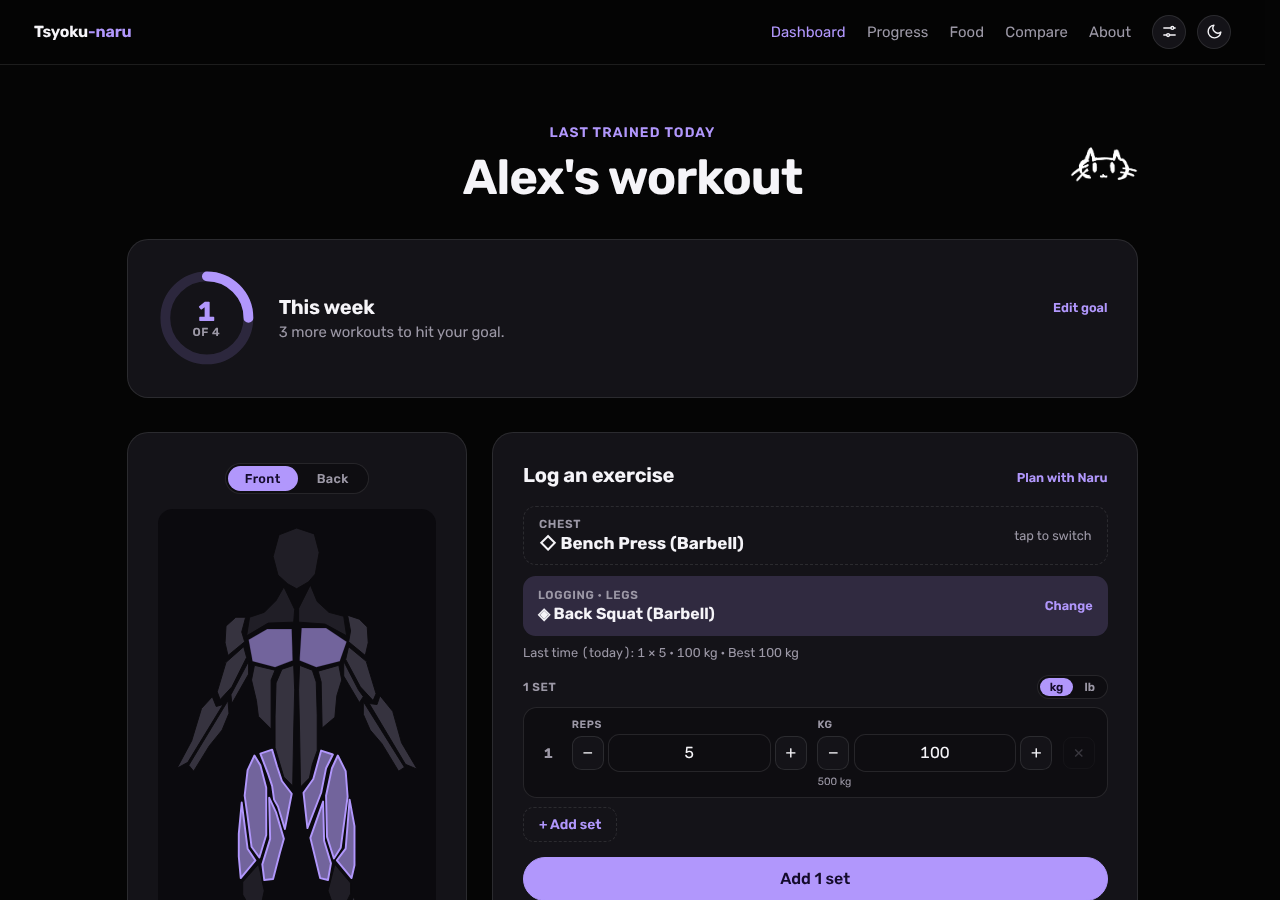
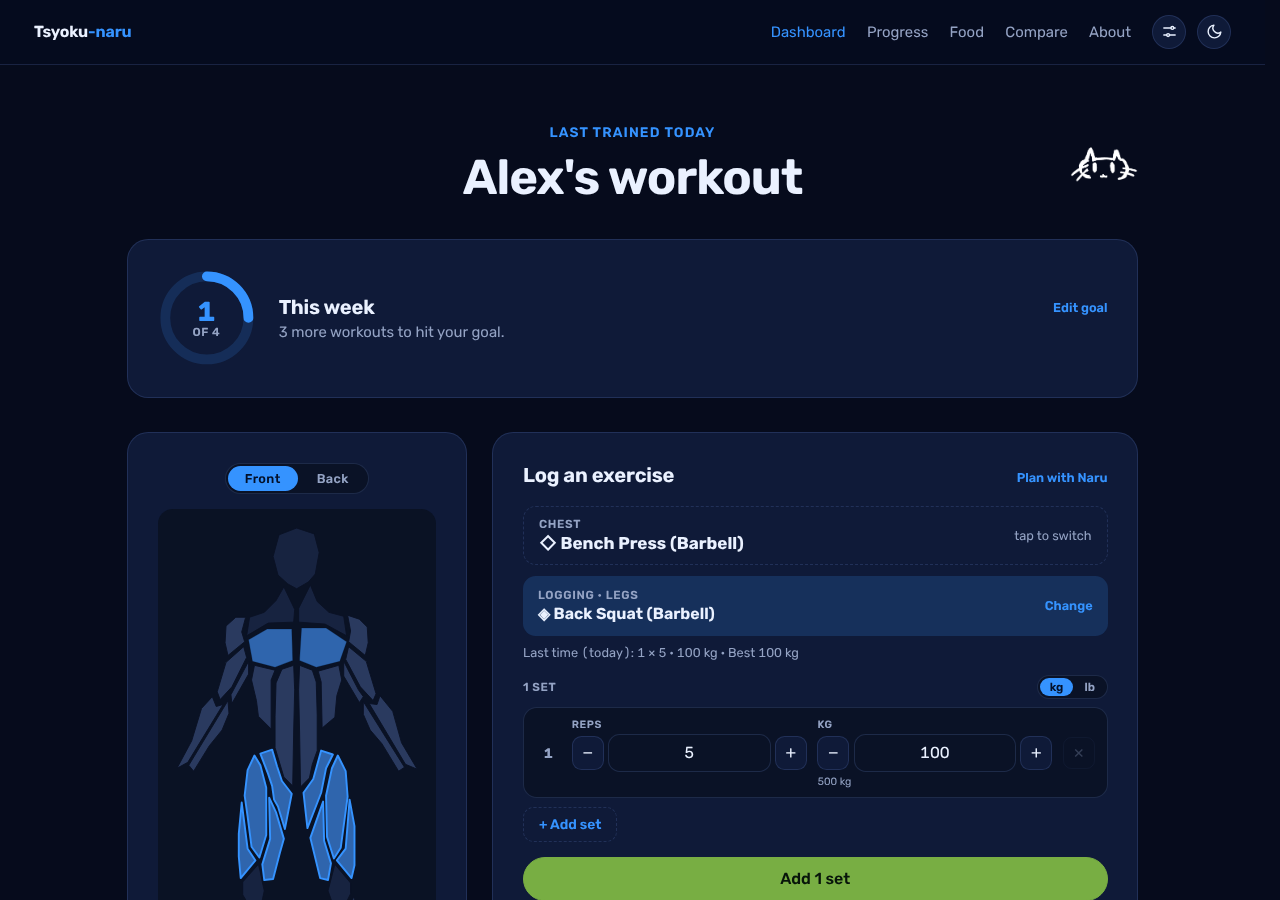
Docs: phase 2 colour changelog entry, README status, new screenshots
Claude-Session: https://claude.ai/code/session_01N4dMXB2CLaNfSseYYugWm8

diff --git a/CHANGELOG.md b/CHANGELOG.md
@@ -4,6 +4,31 @@ All notable changes to Tsyoku-naru. Newest first. Releases are cut by bumping
 `version` in `package.json` and merging to `main`; anything under **Unreleased**
 is on a branch and has not shipped.
 
+## Unreleased — redesign, phase 2 (look), step 1: colours · branch `redesign/phase-2-look`
+
+Colour only. Type, window chrome and the shape of the stickers come next. No
+version bump, and nothing about how data is stored has changed. This branch is
+built on the phase 1 branch, so the two land together unless phase 1 merges first.
+
+### Changed
+- **Blue replaces violet as the app's colour** — Windows XP's own Luna blue
+  (`#0054e3`) on the light theme and the brighter end of its title bar
+  (`#3593ff`) on the dark one. The body map, goal ring, links and toggles follow.
+- **The dark theme is navy, not black** (`#060b1c` page, `#0f1a38` cards) — the
+  colour of the Persona memory-card panel on the owner's site. **The light
+  theme** is a pale-sky page (`#e8eff9`) under white cards.
+- **Two more colours, one job each.** Green is the "log a set" button and
+  nothing else, like XP's Start button. Yellow is the sticker: a filled label
+  with dark ink, shown only when something happens — a new personal best gets a
+  yellow ring on its toast and a yellow "New best" line in the workout summary.
+  No orange anywhere.
+- Record confetti uses blue, yellow and green instead of hard-coded violets.
+- The app icon (web, iPhone, maskable, desktop) is recoloured to the same blue
+  gradient with white bars; the shapes are unchanged.
+- The browser, installed-app and desktop-window background colours now match
+  the page, so there is no flash of the old colour while it loads.
+- README screenshots retaken.
+
 ## Unreleased — redesign, phase 1 (layout) · branch `redesign/phase-1-layout`
 
 Layout and structure only. The new look (colours, type, window chrome, stickers)

diff --git a/README.md b/README.md
@@ -69,7 +69,7 @@ look, then food — so each one can be judged before the next begins.
 | Phase | What | Status |
 |---|---|---|
 | **1 · Layout** | Two-exercise logger, a Food tab, a spot for the mascot | Done |
-| **2 · Look** | Early-web window chrome, a dark logging screen, a hand-drawn mascot, sticker-style rewards | Next |
+| **2 · Look** | XP blue palette, early-web window chrome, a dark logging screen, a hand-drawn mascot, sticker-style rewards | In progress — colours done |
 | **3 · Food log** | Log meals next to workouts | Planned |
 
 Details of every change are in the [changelog](CHANGELOG.md).
